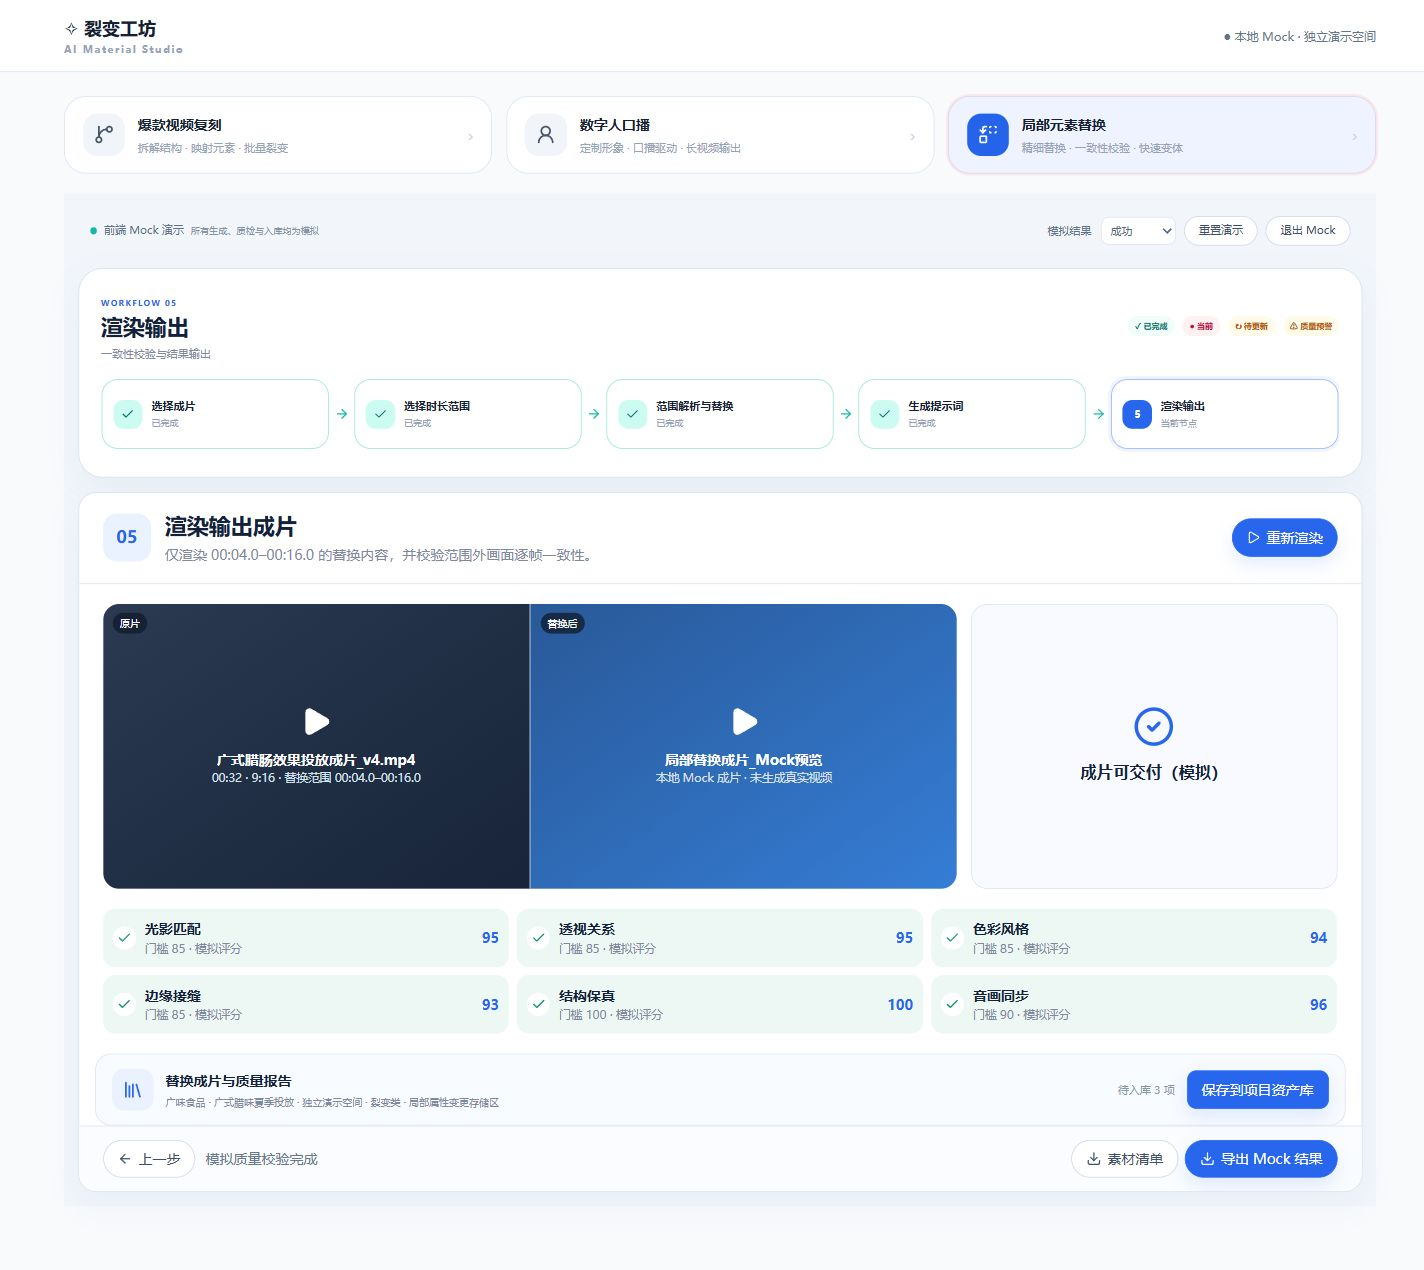
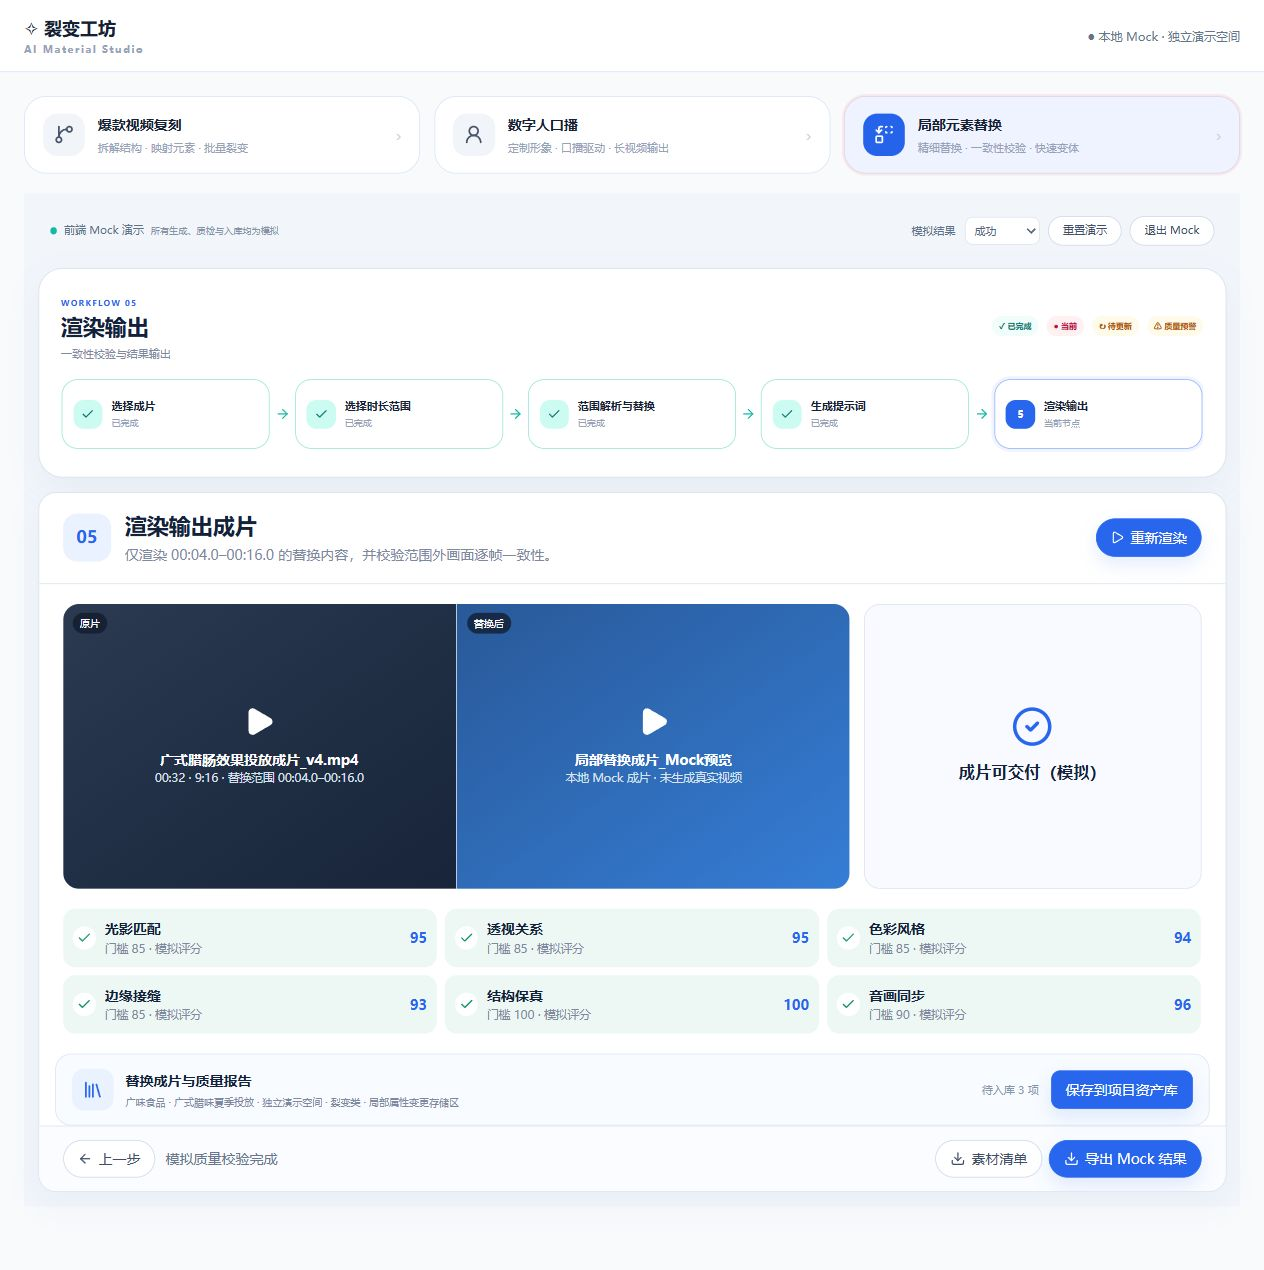
文档：补齐局部元素替换浏览器复验与验收证据

diff --git a/docs/workflows/fission/local-replace/evidence/2026-10-20-逐步浏览器对照复验.md b/docs/workflows/fission/local-replace/evidence/2026-10-20-逐步浏览器对照复验.md
@@ -1,0 +1,62 @@
+# 局部元素替换 · 逐步浏览器对照复验
+
+日期：2026-10-20。本次重新操作正式 Vue 页面与冻结原型，不以旧验收记录代替本次观察。
+
+正式入口：`http://localhost:5173/?mock=local-replace`。对照原型：`references/prototypes/fission/fission-workflows.html` 中的局部元素替换工作台。使用独立演示空间，未调用 API、Worker、模型或真实资产入库。
+
+## 本次发现并修复
+
+| 问题                                                    | 修复与复验                                                                                                                                |
+| ------------------------------------------------------- | ----------------------------------------------------------------------------------------------------------------------------------------- |
+| 横屏来源仍标注竖屏分辨率，本地非标准比例被简化成横/竖屏 | 来源、素材库与范围编辑器统一按来源比例/真实像素显示；实际导入 640×480、3 秒视频，页面显示 4:3、640×480，原生视频读数与播放位置 1.2 秒一致 |
+| 未设置范围时，出点手柄出现在 4 秒，输入却为 0           | 手柄始终使用真实范围值；入出点重叠时上下错开，保留两个可操作入口                                                                          |
+| 默认时间轴宽度和尺标密度偏离原型                        | 采用原型的每秒 30 px、最小 920 px 及按时长切换刻度；32 秒在 1 倍缩放下为 960 px，4 秒一格                                                 |
+| 涉及镜头统计使用固定 4 秒                               | 按原型 8 个演示帧计算，4–16 秒显示 3 个涉及镜头                                                                                           |
+| 解析前页尾缺少明确的下一步条件                          | 显示“请先完成所选时间范围解析”                                                                                                            |
+| 质量面板名称、门槛与原型不一致                          | 对齐光影匹配、透视关系、色彩风格、边缘接缝、结构保真、音画同步；门槛依次为 85、85、85、85、100、90，均明确为模拟评分                      |
+| 输出入库项缺少素材清单                                  | 输出入库项补齐素材清单、质量报告、替换成片演示记录                                                                                        |
+| 提示词复制/重生按钮的可访问名称混入上下文               | 三个字段均使用独立明确的按钮名称                                                                                                          |
+| 本地视频刷新后丢失文件，却显示食品样例预览              | 范围播放器改为明确提示重新导入本地视频；已保存范围和配置保留                                                                              |
+
+## 浏览器实际走查
+
+| 范围             | 本次观察                                                                                                                                                          |
+| ---------------- | ----------------------------------------------------------------------------------------------------------------------------------------------------------------- |
+| 来源页与来源弹窗 | 选择项目成片、切换渲染视频素材、搜索无结果与清除查询；无选择时禁用使用按钮；更换来源清空范围及下游                                                                |
+| 范围编辑器       | 0/0 初态、输入 4–16 秒、播放头定位、入点键盘 0.1 秒微调再恢复、缩放与动态尺标；无效范围阻止下一步                                                                 |
+| 解析与替换       | 初态、运行态、完成态；人物/产品/场景三类预览并确认，素材库选择后仍须主工作区确认；场景解除与重新绑定                                                              |
+| 素材及入库弹窗   | 类型限制、搜索空态、选择/取消/关闭；模拟入库记录选择与版本说明；窄屏布局；Shift+Tab 回到末项，Esc 关闭并返回触发按钮                                              |
+| 提示词           | 初态及生成结果；人工编辑整片合成字段后，仅重生时间范围字段，人工字段保持；编辑负面约束使输出待更新且不能导出，刷新仍保持                                          |
+| 渲染             | 运行期间禁用节点切换；取消、失败、质量预警、成功与重试；预警禁用导出；重复确认同一绑定不使成功输出失效                                                            |
+| 下载             | 实际下载结果 JSON 并解析：`mock: true`、`FISSION_LOCAL_REPLACE`、4–16 秒、三类绑定、6 项模拟质量数据；另操作素材清单下载入口                                      |
+| 本地视频         | 使用 FFmpeg 测试图生成的 640×480、3 秒 MP4，无外部上传；播放按钮确实播放原生视频，播放头随之更新；刷新后的文件恢复提示已复验                                      |
+| 恢复与布局       | 1440×1000、1920×1080、430×932；窄屏没有整页横向溢出，长时间轴/流程在自己的容器滚动；切换数字人再切回，只有 1 个 `.lr-shell`，没有残留 `.fas-studio`，完成结果恢复 |
+
+## 本次截图
+
+截图在 [review-pass](browser/2026-10-20-review-pass/)；其中早期 `02-range-formal.jpg` 记录修复前状态，后续宽屏图记录修复后状态。
+
+| 内容      | 正式页面                                                                                                                                                                        | 原型                                                                                                                                 |
+| --------- | ------------------------------------------------------------------------------------------------------------------------------------------------------------------------------- | ------------------------------------------------------------------------------------------------------------------------------------ |
+| 来源弹窗  | [1440](browser/2026-10-20-review-pass/01-library-formal.jpg)、[1920](browser/2026-10-20-review-pass/01-library-1920.jpg)                                                        | [原型](browser/2026-10-20-review-pass/01-library-prototype.jpg)                                                                      |
+| 范围      | [修复后 1920](browser/2026-10-20-review-pass/02-range-1920.jpg)、[430](browser/2026-10-20-review-pass/02-range-430.jpg)                                                         | [原型](browser/2026-10-20-review-pass/02-range-prototype.jpg)                                                                        |
+| 解析/素材 | [解析](browser/2026-10-20-review-pass/03-analysis-formal.jpg)、[窄屏素材弹窗](browser/2026-10-20-review-pass/03-assets-430.jpg)                                                 | [解析](browser/2026-10-20-review-pass/03-analysis-prototype.jpg)、[素材弹窗](browser/2026-10-20-review-pass/03-assets-prototype.jpg) |
+| 入库      | [1440](browser/2026-10-20-review-pass/03-save-formal.jpg)、[430](browser/2026-10-20-review-pass/03-save-430.jpg)                                                                | [原型](browser/2026-10-20-review-pass/03-save-prototype.jpg)                                                                         |
+| 提示词    | [1440](browser/2026-10-20-review-pass/04-prompts-formal.jpg)、[430](browser/2026-10-20-review-pass/04-prompts-430.jpg)                                                          | [原型](browser/2026-10-20-review-pass/04-prompts-prototype.jpg)                                                                      |
+| 渲染完成  | [1440](browser/2026-10-20-review-pass/06-final-desktop.jpg)、[1920](browser/2026-10-20-review-pass/05-render-1920.jpg)、[430](browser/2026-10-20-review-pass/05-render-430.jpg) | [原型](browser/2026-10-20-review-pass/05-render-prototype.jpg)                                                                       |
+
+其他状态：[失败](browser/2026-10-20-review-pass/05-render-failed.jpg)、[预警](browser/2026-10-20-review-pass/05-render-warning.jpg)、[待更新](browser/2026-10-20-review-pass/05-render-stale.jpg)、[本地视频](browser/2026-10-20-review-pass/02-local-video.jpg)、[刷新提示](browser/2026-10-20-review-pass/02-local-refresh.jpg)。预警截图摄于质量名称修复前，用于证明状态与导出限制，最终名称以修复后的完成图为准。
+
+## 代码验证
+
+- `pnpm --filter @ai-marketing/web exec vitest run src/workflows/fission/local-replace --maxWorkers=1`：2 个文件，16 项通过，覆盖范围边界、连续两轮来源失效、同绑定不失效、单字段重生、草稿隔离/恢复、来源元数据、时间轴刻度及本地媒体同步。
+- `pnpm --filter @ai-marketing/web build`：Vue/TypeScript 检查及 Vite 构建通过；仍有现有大 chunk 提示。
+- `pnpm --filter @ai-marketing/web exec eslint src/workflows/fission/local-replace`：通过。
+- `pnpm exec prettier --check apps/web/src/workflows/fission/local-replace`：通过。
+- `git -c core.safecrlf=false diff --check`：通过。
+
+## 保留差异与未验证范围
+
+保留显式 Mock 工具条、当前项目样例筛选、窄屏适配、重叠手柄可访问性调整及 JSON 演示导出。这些差异服务于模拟隔离、真实浏览器文件边界和可操作性。原型的样例数量不作为真实资产或质量依据。
+
+本次没有执行真实 AI 解析、视频替换、画面质量审片、MP4 编码、服务端持久化或真实项目资产归档；六项分数是演示值。未宣称像素级完全一致，也未用截图证明真实视频逐帧保持不变。

diff --git a/docs/workflows/fission/local-replace/evidence/2026-10-20-完整流程二次回归.md b/docs/workflows/fission/local-replace/evidence/2026-10-20-完整流程二次回归.md
@@ -1,0 +1,31 @@
+# 局部元素替换完整流程二次回归
+
+日期：2026-10-20。使用独立 Chromium 会话分别打开冻结原型和正式开发 Mock 预览，完整走通五步。范围为浏览器 Mock，不涉及真实供应商、任务或正式资产。
+
+## 本轮修复与观察
+
+1. 本地视频播放头此前只改变模拟数值，真实 `<video>` 仍停在 0 秒。已同步播放器与滑块、播放/暂停、入出点、轨道定位及回到开始，并以原生播放事件反向更新工作台。为验收录制了一条仅含色块和计数的 320×180 WebM 测试片；实测定位 0.7 秒、播放到约 0.92 秒、入点定位 0.4 秒、回到 0 秒，显示 16:9 / 320×180。
+2. 单项提示词重生成取消后原编辑包被隐藏，刷新也会丢失“单字段操作”的恢复边界。已持久化当前单字段任务标识，取消/刷新恢复原编辑态及人工文本。整包任务中断仍可重试。失败单项重生成也保留其他字段。
+3. 年轻主播缩略图的服装颜色、头发颜色及遮挡比例与原型不同。已恢复原型参数，在同宽度对比两侧计算样式一致。
+
+来源尺寸、时间线、弹窗及外部图片导入等已有并行改动在本次工作区上共同验证；未覆盖或回退这些改动。正式顶栏、显式 Mock 工具条、当前项目候选隔离、Mock JSON 导出继续作为有意差异，不冒充真实视频或正式入库。
+
+## 浏览器实际验证
+
+- 来源：搜索空态、工作流/项目/类型筛选、取消不改变原片、选择渲染素材、更换来源清除范围及全部下游、清空原片禁用下一步。
+- 时长范围：4–16 秒、非法范围禁用下一步、0.1 秒键盘微调、拖动入点至 8 秒、本地视频实际播放与定位同步。
+- 范围解析：运行时节点禁用、取消及重试；人物/产品/场景分别预览确认；搜索空态、素材弹窗取消及 ESC 焦点恢复；本地图片导入、确认绑定及刷新后的元数据/预览恢复提示。
+- 提示词：三维聚合为一条；人工编辑、单字段重生成、失败、取消和刷新保留其他人工字段；编辑后已有输出显示待更新。
+- 输出：失败后重试、质量预警显示异常图标且禁用导出、重新渲染成功、Mock JSON 下载。入库弹窗全不选禁用、部分选择保存、重新打开及刷新仍保留所选记录。
+- 切换子模块后恢复结果，只有一套局部替换画布。两个独立 `mockProject` 作用域互不串用，刷新恢复各自范围。
+- 原型与正式页面逐节点检查 1920、1440、390 宽度，未发现工作区横向溢出；来源、素材、入库弹窗在 390 / 430 下均位于视口内。记录的正式页面运行错误为空。
+
+## 命令与证据
+
+- `pnpm --filter @ai-marketing/web exec vitest run src/workflows/fission/local-replace/local-replace.mock.spec.ts src/workflows/fission/local-replace/local-replace-media.spec.ts src/platform/project/project-workflow-switch.spec.ts src/platform/project/project-context.spec.ts`：4 个文件、26 个测试通过。
+- `pnpm --filter @ai-marketing/web typecheck`、`pnpm --filter @ai-marketing/web build`：通过；构建保留现有大 chunk 提示。
+- `pnpm exec eslint apps/web/src/workflows/fission/local-replace`、该目录 Prettier 检查及相关 `git diff --check`：通过。
+
+原型/正式成对截图、三类窄屏弹窗、失败/预警、本地视频和演示下载位于 [本轮证据目录](browser/2026-10-20-full-regression-pass2/)。
+
+未验证真实后端持久化、真实生成画质、付费渲染或正式交付；本轮无提交、推送、API/Worker 重启。

diff --git a/docs/workflows/fission/local-replace/plans/2026-10-20-浏览器逐步对照修复.md b/docs/workflows/fission/local-replace/plans/2026-10-20-浏览器逐步对照修复.md
@@ -9,3 +9,5 @@
 已观察待核对：来源弹窗 16:9 样例仍展示竖屏分辨率；范围未设置时出点手柄展示在 4 秒而输入值为 0；时间轴默认比例与原型不同；第三步尚未解析的页尾缺少明确下一步提示。继续通过浏览器走到终态后修复实际差异，并为业务状态或数据转换修复补充相关单测。
 
 验收：本次新截图放 `../evidence/browser/2026-10-20-review-pass/`，报告明确差异、修复、实测与未验证范围；运行局部替换测试、Web 类型检查/构建、ESLint/格式、git diff --check。保持 Mock 与真实付费任务隔离。
+
+已完成：三种宽度及五步 Mock 主流程、失败/取消/预警、下载记录、刷新和模块切换完成复验；来源元数据、时间轴、质量面板及本地文件丢失后的预览提示已修复。16 项相关测试及 Web 类型/构建、ESLint、格式和 diff 检查通过。详见[本次复验记录](../evidence/2026-10-20-逐步浏览器对照复验.md)。
